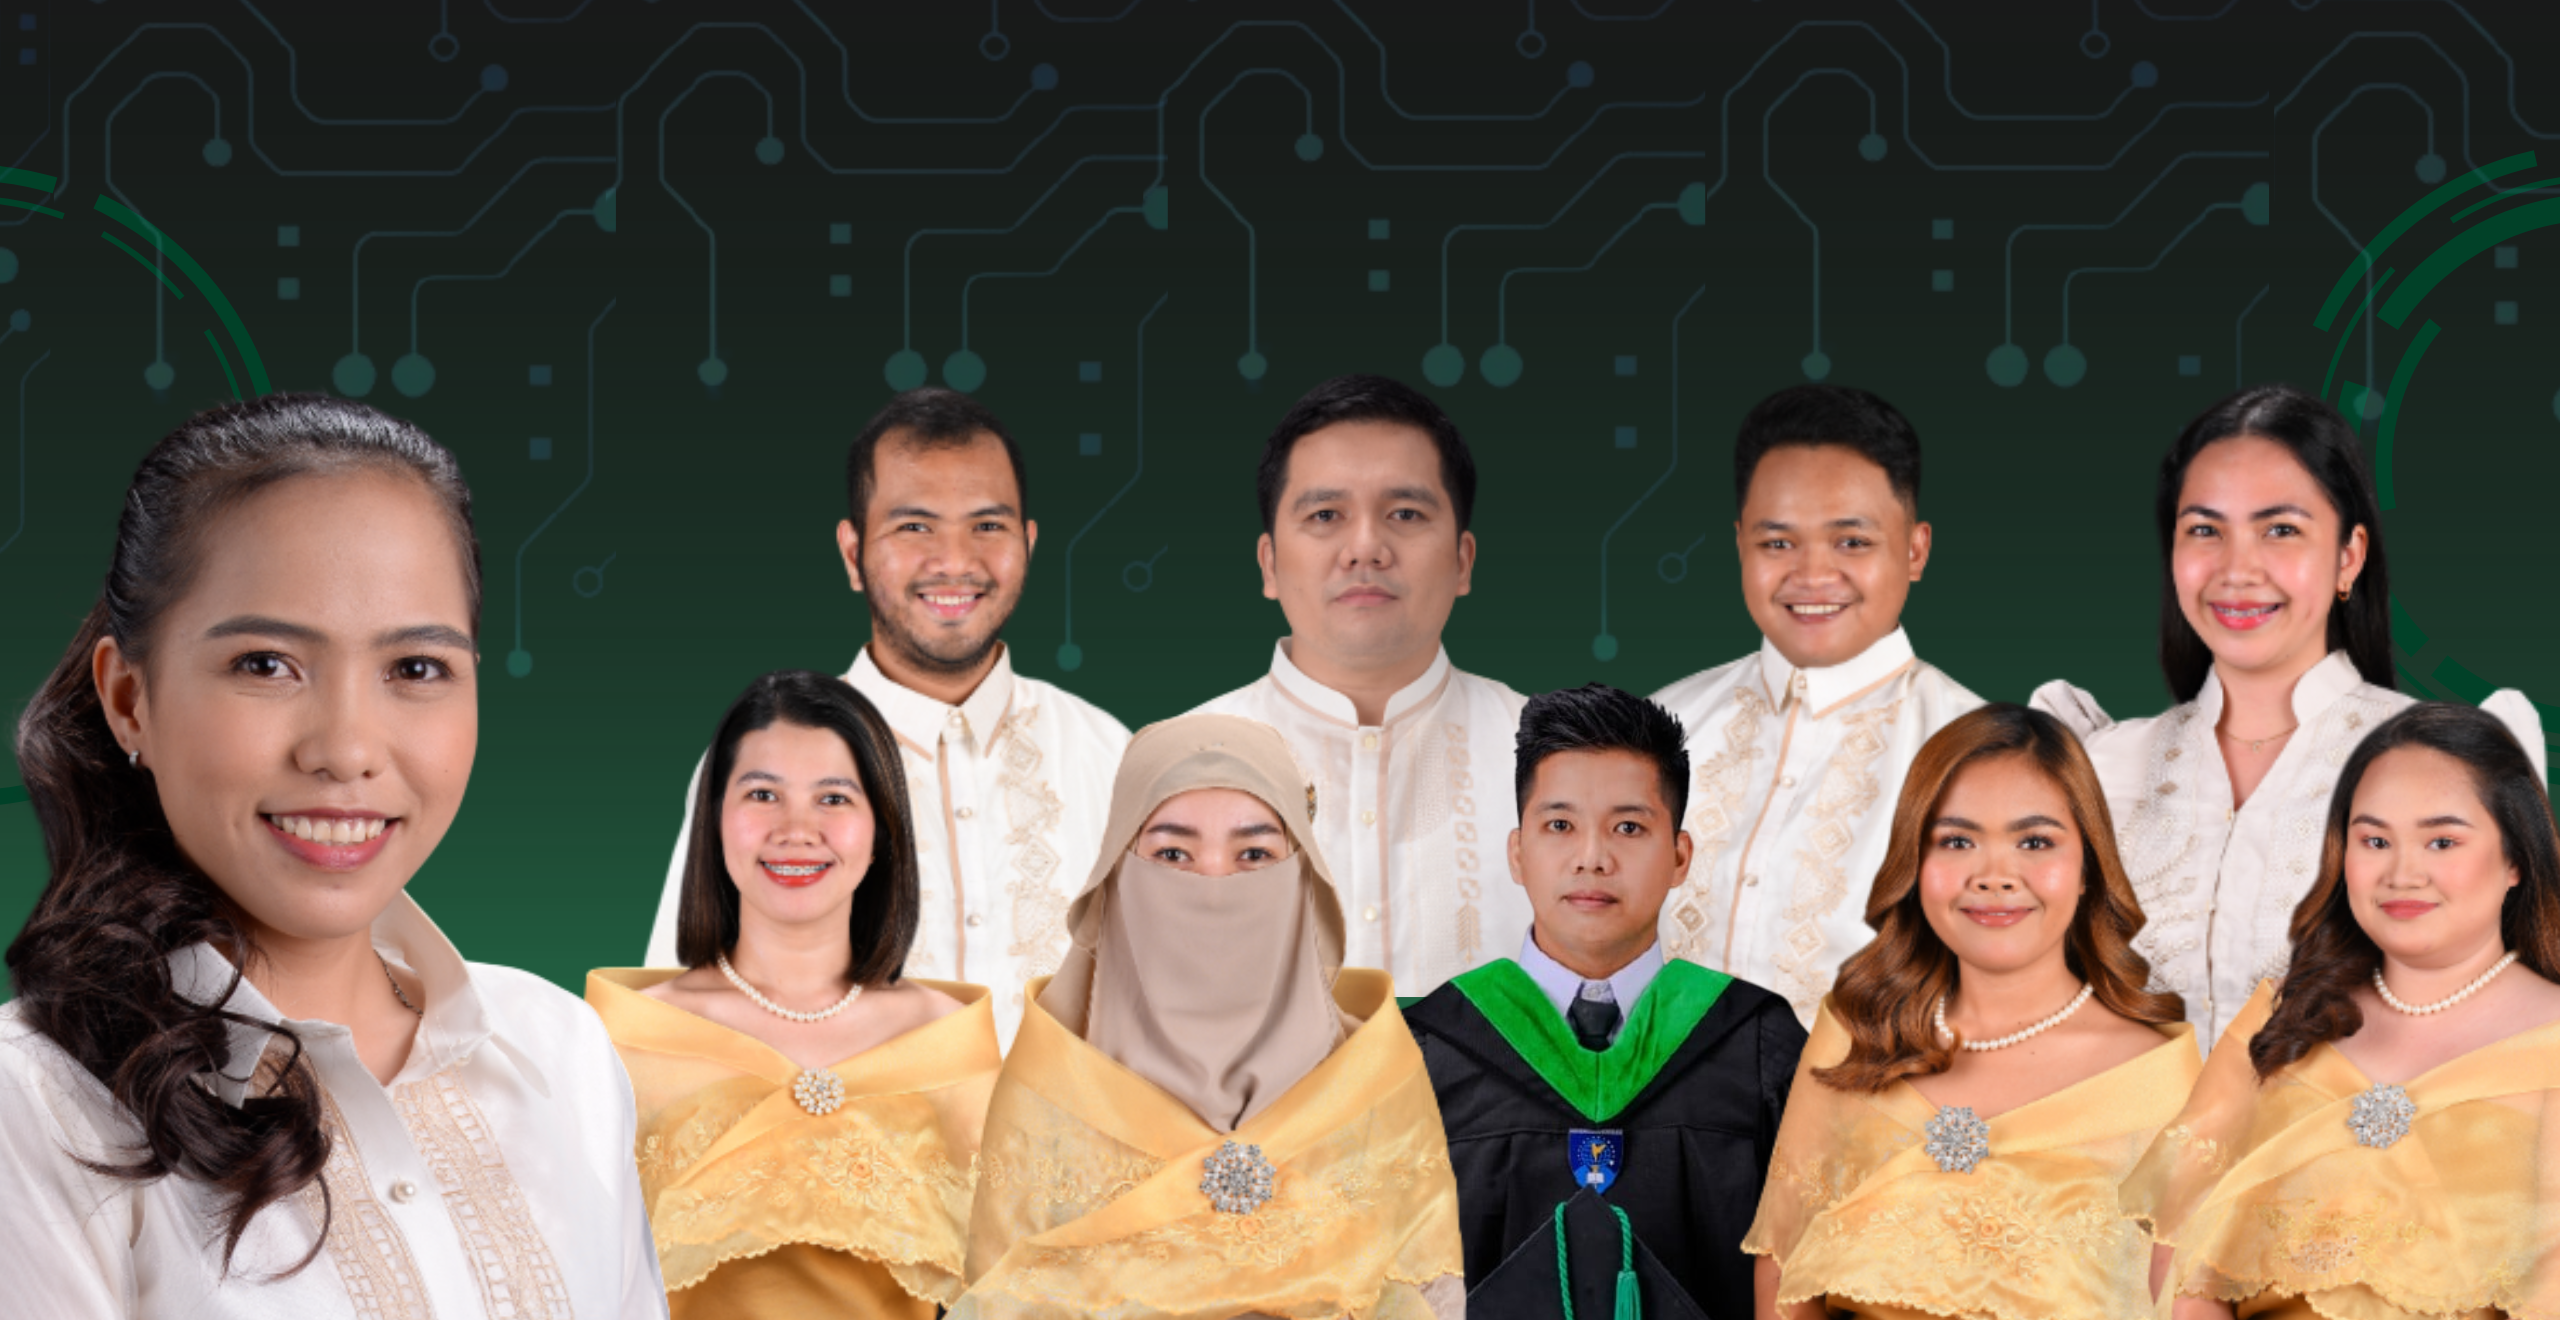
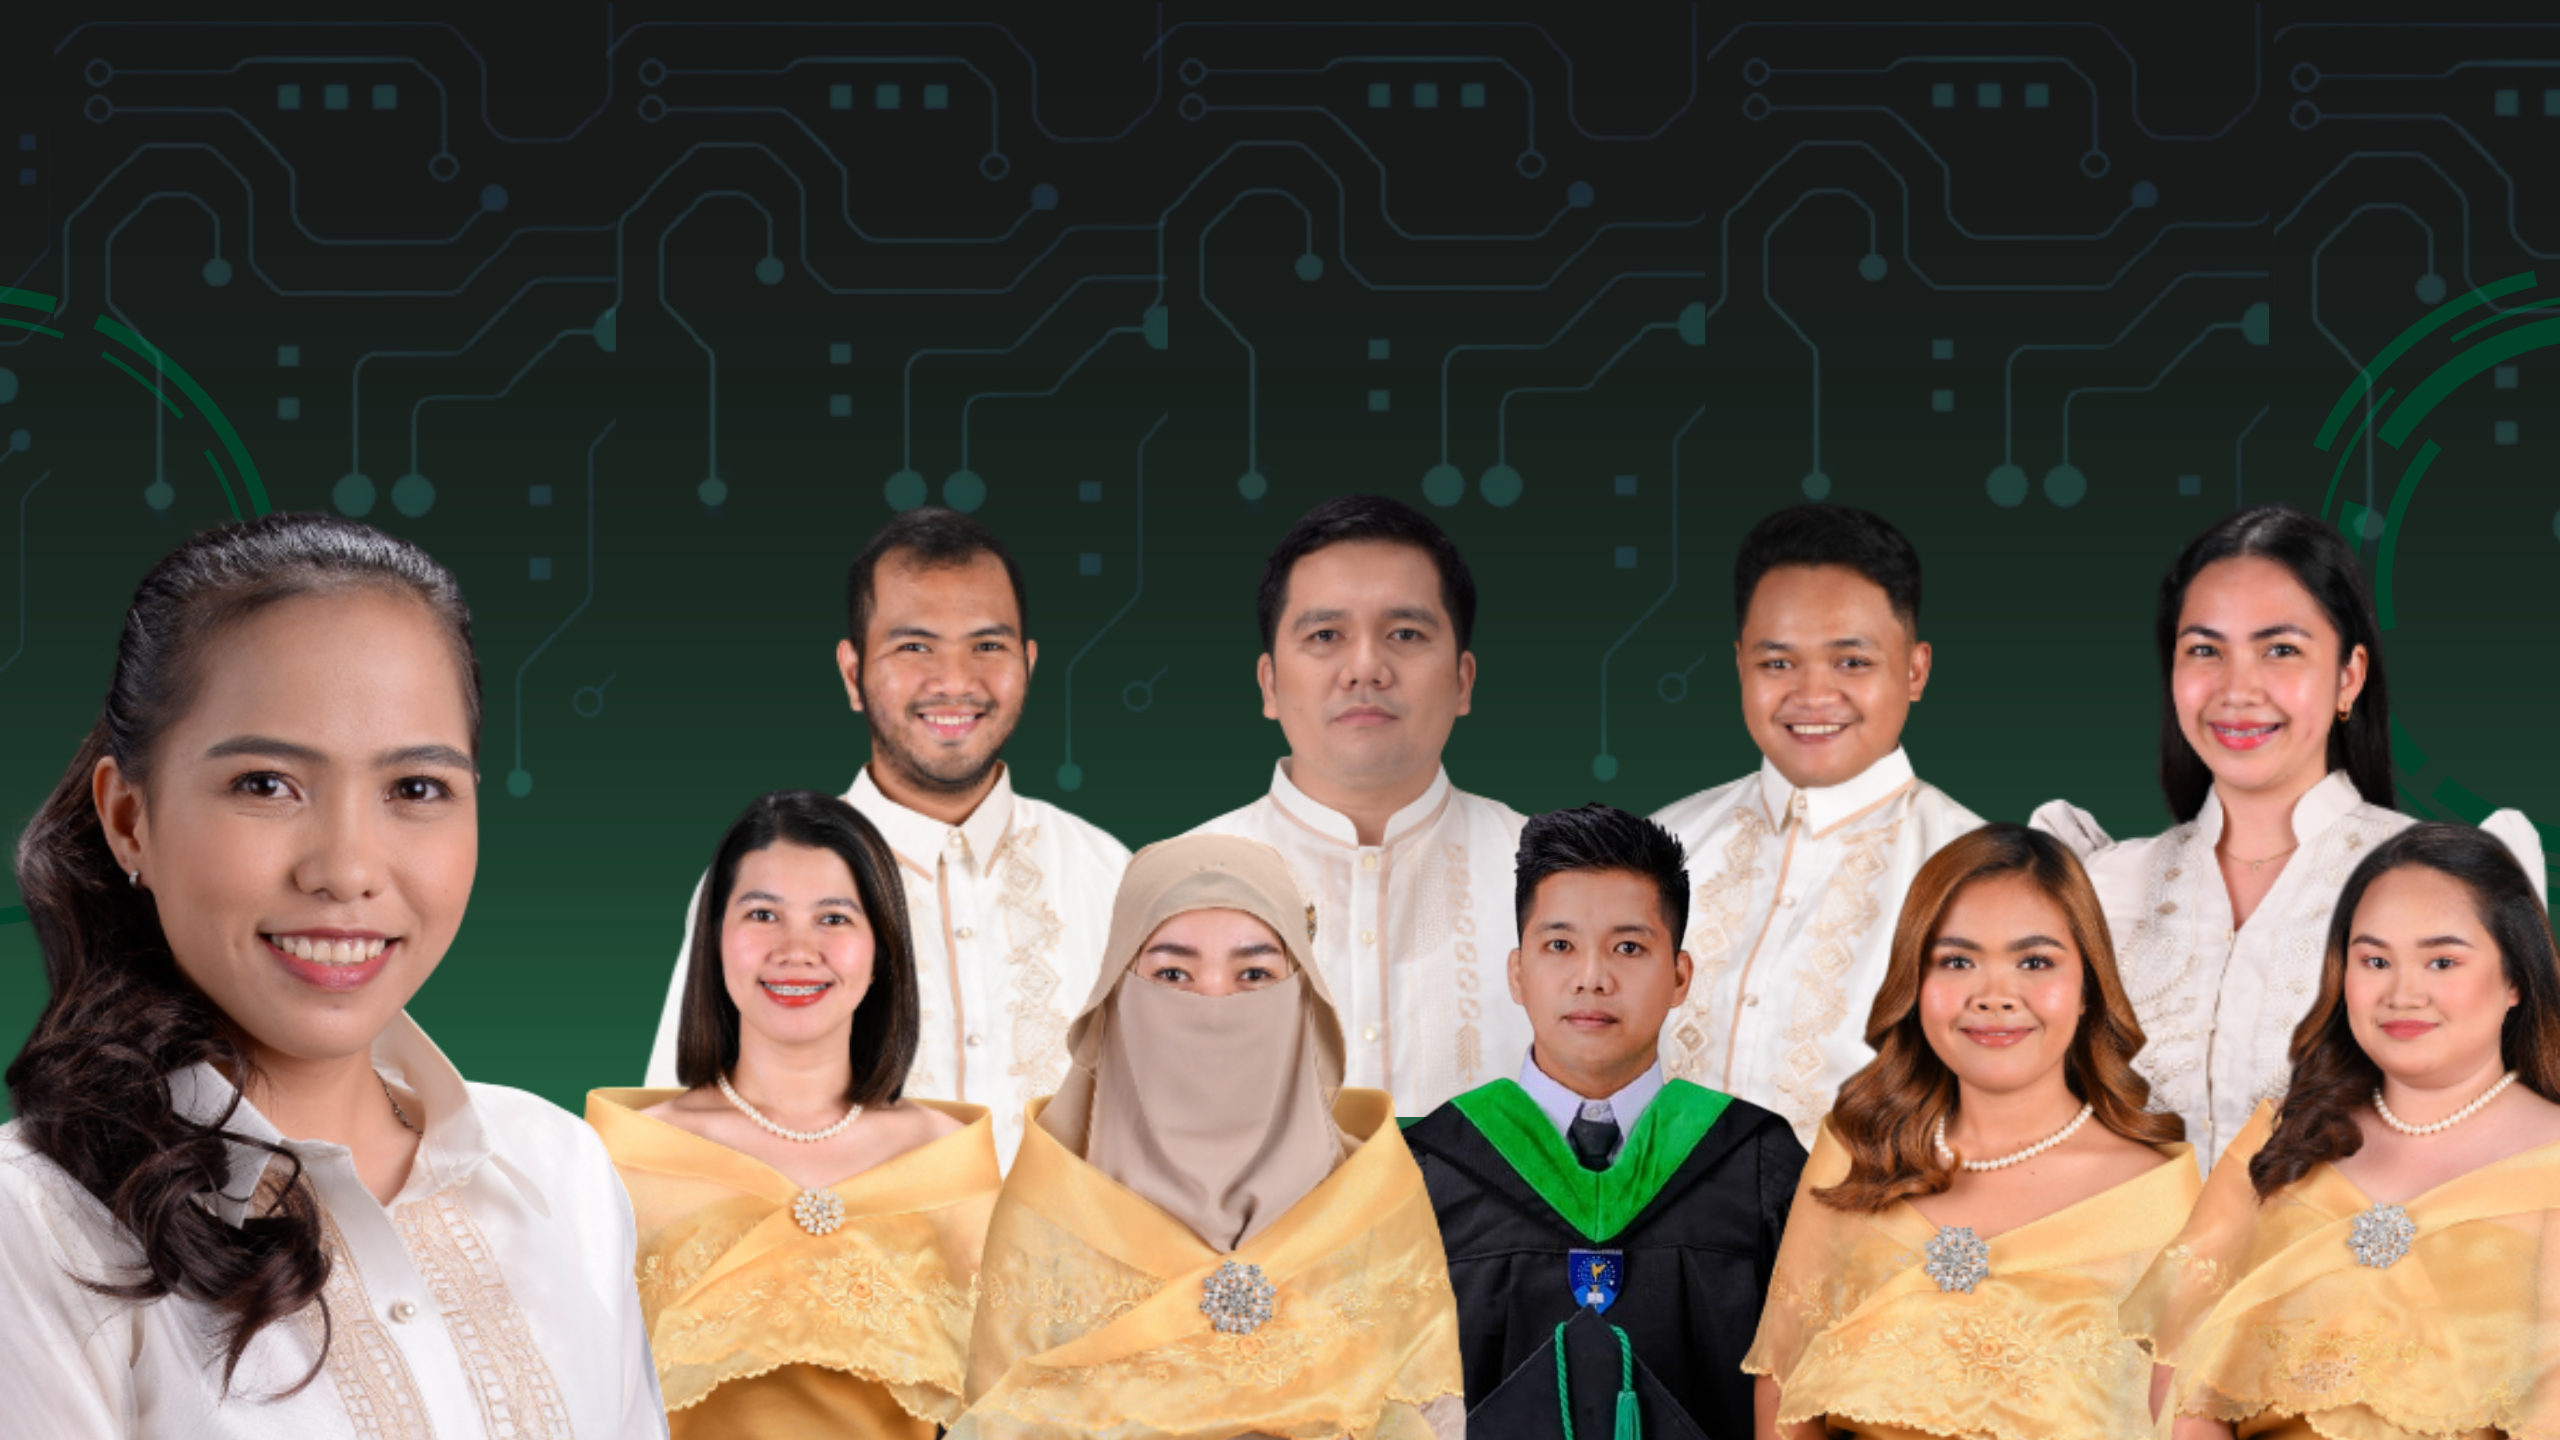
sbo

diff --git a/sbo.html b/sbo.html
@@ -30,72 +30,74 @@
         </nav>
     </header>
 
-    <main class="container mt-5 pt-5">
-     <!-- SBO Header -->
-<!-- SBO Header -->
-<!-- SBO Header -->
-<section style="position: relative; width: 100%; margin: 0; padding: 0;">
-    <!-- Full-width image -->
-    <img src="sbo/group.jpg" 
-         style="width: 100%; height: 550px; object-fit: cover; display: block;">
+<section class="sbo-hero">
+    <img src="sbo/group.jpg" alt="SBO Banner" class="sbo-hero-img">
 
-    <!-- Overlay text -->
-    <div style="position: absolute; top: 50%; left: 50%; transform: translate(-50%, -50%);
-                text-align: center; color: white; background-color: rgba(0,0,0,0.4);
-                padding: 20px; max-width: 90%;">
-        <h1 class="fw-bold custom-panther-text">Student Body Organization 🏛</h1>
+    <div class="sbo-hero-overlay">
+        <h1 class="fw-bold custom-panther-text">Student Body Organization</h1>
         <p class="lead">Meet the leaders shaping our campus and driving positive change.</p>
     </div>
 </section>
 
+  
+<!-- Leaders Section -->
+<section class="row g-5 my-5 justify-content-center text-center">
+    <!-- Leader 1 -->
+    <div class="col-md-4">
+        <div class="leader-card">
+            <img src="sbo/gov.jpg" alt="Leader 1">
+            <h4>Jenny C. Madria</h4>
+            <h5>Governor</h5>
+            <p>“Make sure every student’s voice is heard and create fun and meaningful activities that bring everyone together.”</p>
+        </div>
+    </div>
 
-        <!-- Leaders Section -->
-        <section class="row g-5 my-5 justify-content-center text-center">
-            <!-- Leader 1 -->
-            <div class="col-md-4">
-                <img src="sbo/gov.jpg" alt="Leader 1" class="mb-3" style="width:250px; height:350px; object-fit:cover;">
-                <h4>Governor: Jenny C. Madria</h4>
-                <p>Platform: “Make sure every student’s voice is heard and create fun and meaningful activities that bring everyone together.”</p>
-                
-            </div>
+    <!-- Leader 2 -->
+    <div class="col-md-4">
+        <div class="leader-card">
+            <img src="sbo/vice.jpg" alt="Leader 2">
+            <h4>Aaron Ezekiel M. Saguing</h4>
+            <h5>Vice Governor</h5>
+            <p>“Help students feel supported and connected by listening to their ideas and helping them with school life.”</p>
+        </div>
+    </div>
 
-            <!-- Leader 2 -->
-            <div class="col-md-4"> 
-                <img src="sbo/vice.jpg" alt="Leader 2" class="mb-3" style="width:250px; height:350px; object-fit:cover;">
-                <h4>Vice Governor: Aaron Ezekiel M. Saguing</h4>
-                <p>Platform: “Help students feel supported and connected by listening to their ideas and helping them with school life.”</p>
-               
-            </div>
+    <!-- Leader 3 -->
+    <div class="col-md-4">
+        <div class="leader-card">
+            <img src="sbo/2nd.jpg" alt="Leader 3">
+            <h4>Eunace Faith L. Emactao</h4>
+            <h5>2nd Year Councilor</h5>
+            <p>“Create a friendly and welcoming environment for 2nd-year students so everyone can feel included and motivated.”</p>
+        </div>
+    </div>
 
-            <!-- Leader 3 -->
-            <div class="col-md-4">
-                <img src="sbo/2nd.jpg" alt="Leader 3"class="mb-3" style="width:250px; height:350px; object-fit:cover;">
-                <h4>2nd Year councilor: Eunace Faith L. Emactao</h4>
-                <p>Platform: “Create a friendly and welcoming environment for 2nd-year students so everyone can feel included and motivated.”</p>
-                
-            </div>
+    <!-- Leader 4 -->
+    <div class="col-md-4">
+        <div class="leader-card">
+            <img src="sbo/3rd.jpg" alt="Leader 4">
+            <h4>Christian Dirk Axel S. Igcalinos</h4>
+            <h5>3rd Year Councilor</h5>
+            <p>“Make school life enjoyable for 3rd-year students through activities that encourage friendship and teamwork.”</p>
+        </div>
+    </div>
 
-            <!-- Leader 4 -->
-            <div class="col-md-4">
-                <img src="sbo/3rd.jpg" alt="Leader 4" class="mb-3" style="width:250px; height:350px; object-fit:cover;">
-                <h4>3rd Year Councilor: Christian Dirk Axel S. Igcalinos </h4>
-                <p>Platform:“Make school life enjoyable for 3rd-year students through activities that encourage friendship and teamwork.”</p>
-                
-            </div>
+    <!-- Leader 5 -->
+    <div class="col-md-4">
+        <div class="leader-card">
+            <img src="sbo/4th.jpg" alt="Leader 5">
+            <h4>MJ O. Magsalos</h4>
+            <h5>4th Year Councilor</h5>
+            <p>“Support 4th-year students by helping them make the most of their last year and create memories to remember.”</p>
+        </div>
+    </div>
+</section>
 
-            <!-- Leader 5 -->
-            <div class="col-md-4">
-                  <img src="sbo/4th.jpg" alt="Leader 5"  class="mb-3" style="width:250px; height:350px; object-fit:cover;">
-                <h4>4th Year Councilor: MJ O. Magsalos</h4>
-                <p>Platform: “Support 4th-year students by helping them make the most of their last year and create memories to remember.”</p>
-              
-            </div>
-        </section>
-    </main>
+<footer class="text-white text-center py-3 mt-5">
 
-    <footer class="bg-dark text-white text-center py-3 mt-5">
-        <p>&copy; 2026 College of Information Technology | SBO Leaders</p>
-    </footer>
+    <p>&copy; 2025 Institute for Computer Studies | ICS Student Body Organization</p>
+</footer>
+
 
     <script src="https://cdn.jsdelivr.net/npm/bootstrap@5.3.3/dist/js/bootstrap.bundle.min.js"></script>
 </body>

diff --git a/sbo.css b/sbo.css
@@ -1,6 +1,8 @@
 /* ===========================
    GENERAL STYLES
 =========================== */
+@import url('https://fonts.googleapis.com/css2?family=Merriweather:wght@400;600;700&family=Poppins:wght@300;500;700&display=swap');
+
 body {
     font-family: 'Segoe UI', Tahoma, Geneva, Verdana, sans-serif;
     background-color: #f8f9fa;
@@ -28,29 +30,91 @@ body {
 /* ===========================
    HERO SECTION
 =========================== */
-section img {
-    display: block;
+.sbo-hero-container {
+    position: relative;
     width: 100%;
-    height: 550px;
-    object-fit: cover;
+    display: inline-block; /* makes container fit image height */
 }
 
-section div {
+.sbo-hero-img {
+    width: 100%;
+    height: auto;
+    display: block;
+    margin-top: 20px; /* or adjust as needed */
+}/* SBO HERO HEADER - match faculty style */
+.sbo-hero-overlay {
+    position: absolute;
+    top: 50%;                  /* same vertical placement as faculty */
+    left: 50%;
+    transform: translate(-50%, -50%);
+    text-align: center;
+    color: white;
+    background-color: rgba(0,0,0,0.4); /* transparent box */
+    padding: 20px;
+    max-width: 90%;
     border-radius: 8px;
 }
 
-section h1 {
-    font-size: 3rem;
-    text-shadow: 2px 2px 5px rgba(0,0,0,0.7);
+/* SBO HERO HEADER TEXT - same as faculty */
+.sbo-hero-overlay h1 {
+     font-size: 3rem;
+    font-family: 'Merriweather', serif;
+    margin-bottom: 10px;
+    text-shadow: 1px 1px 5px rgba(0,0,0,0.7);
 }
 
-section p {
-    font-size: 1.2rem;
+.sbo-hero-overlay p {
+ font-size: 1.2rem;
+    text-shadow: 1px 1px 5px rgba(0,0,0,0.5);
 }
+
+
+
+
 
 /* ===========================
-   LEADERS / FACULTY SECTION
+   LEADERS / FACULTY CARDS
 =========================== */
+.leader-card {
+    background: white;
+    border-radius: 10px;
+    padding: 20px 15px;
+    box-shadow: 0px 4px 8px rgba(0,0,0,0.08);
+    transition: 0.3s;
+    border-top: 5px solid #00965e; /* match your accent color */
+}
+
+.leader-card:hover {
+    transform: translateY(-7px);
+    box-shadow: 0px 6px 14px rgba(0,0,0,0.15);
+}
+
+.leader-card img {
+    width: 250px;
+    height: 350px;
+    object-fit: cover;
+    border-radius: 8px;
+    margin-bottom: 15px;
+}
+
+.leader-card h4 {
+    font-family: 'Merriweather', serif;
+    font-weight: 700;  /* bold for name */
+    margin-top: 10px;
+}
+
+.leader-card h5 {
+    font-family: 'Merriweather', serif;
+    font-weight: 500;  /* semi-bold for position */
+    margin-bottom: 10px;
+}
+
+.leader-card p {
+    font-family: 'Poppins', sans-serif;
+    font-size: 0.95rem;
+    color: #555;
+}
+
 section.row > div {
     background-color: #ffffff;
     padding: 15px;
@@ -118,4 +182,11 @@ footer p {
     section p {
         font-size: 0.95rem;
     }
+}
+
+footer {
+    background: #00965e;
+    color: white;
+    font-size: 0.9rem;
+    letter-spacing: 0.5px;
 }

diff --git a/faculty.html b/faculty.html
@@ -65,7 +65,7 @@
              style="width:200px; height:250px; object-fit:cover;">
         <h4>Mahaliah Luz O. Lara</h4>
         <h4>Administrative Aide VI</h4>
-        <p>Provides essential administrative support for ICS operations and student services.</p>
+        <p>  Provides essential administrative support for ICS operations and student services.</p>
     </div>
 
     <!-- Instructors (8 placeholders) -->
